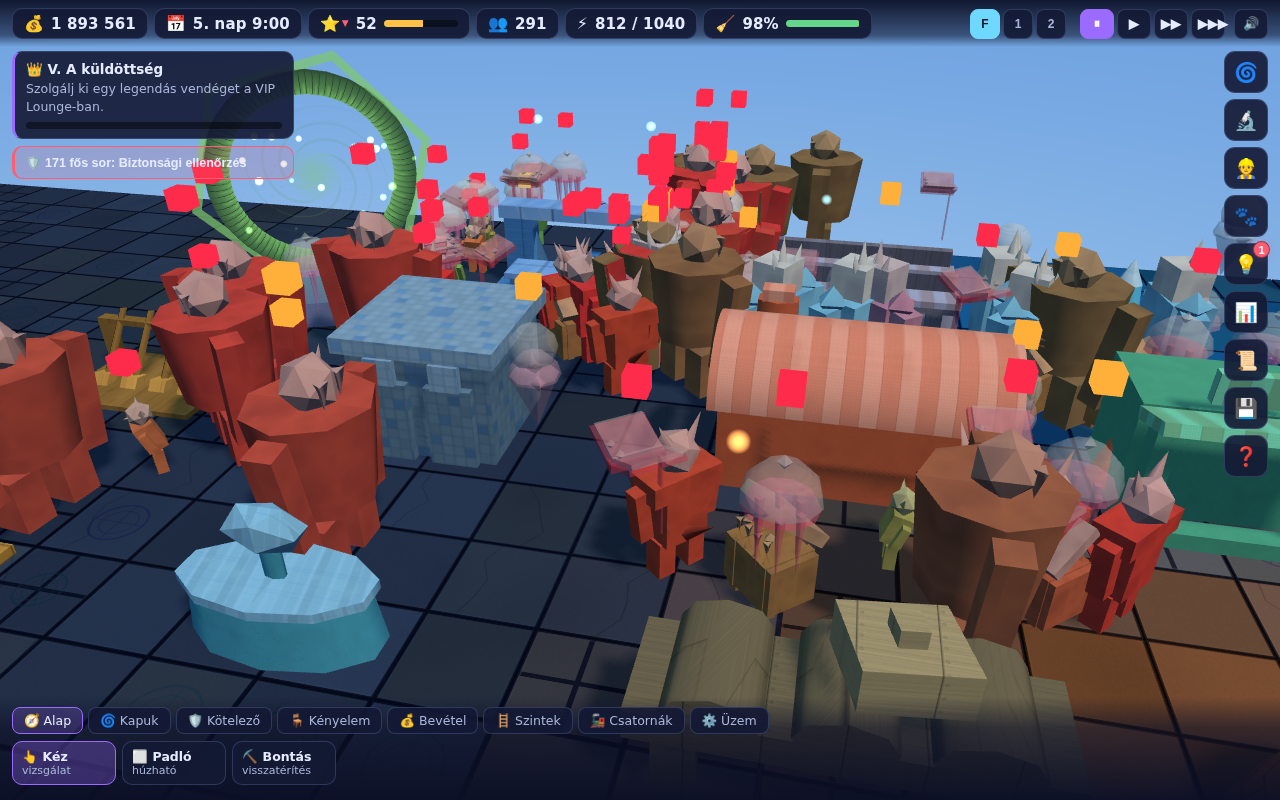
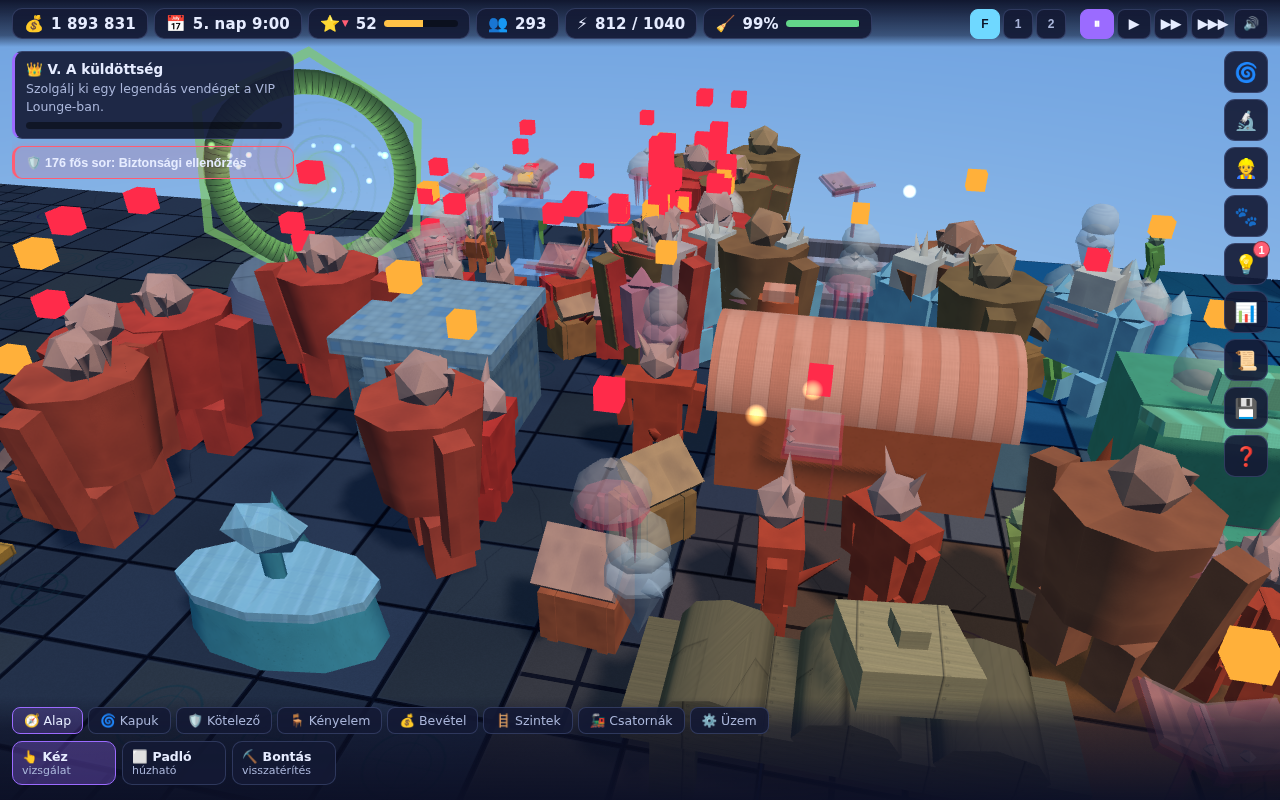
wip: texturak.js — a textúra-agent a képkocka-időn dolgozik (ellenőrizetlen)
Claude-Session: https://claude.ai/code/session_016bTwSFdaEmxbpvs6caWmDz

diff --git a/portal/src/render/texturak.js b/portal/src/render/texturak.js
@@ -110,7 +110,11 @@ function texturaz(THREE, c, ismetX = 1, ismetY = 1, nagyFelulet = false) {
   // trilineárist, minden más 1×-et és a fele annyi mintát kérő
   // `LinearMipmapNearest`-et.
   if (nagyFelulet) {
-    t.anisotropy = 4;
+    // 2×, nem 4×: a 4-ről 2-re lépés a minták felét spórolja a legnagyobb
+    // felületen, a lapos szögű elmosódás viszont még nem jön vissza. A
+    // trilineáris szűrés MARAD — enélkül a nagy csarnokon látszana a
+    // mipmap-sávok határa, és az mozgás közben „hullámzik".
+    t.anisotropy = 2;
     t.minFilter = THREE.LinearMipmapLinearFilter;
   } else {
     t.anisotropy = 1;
